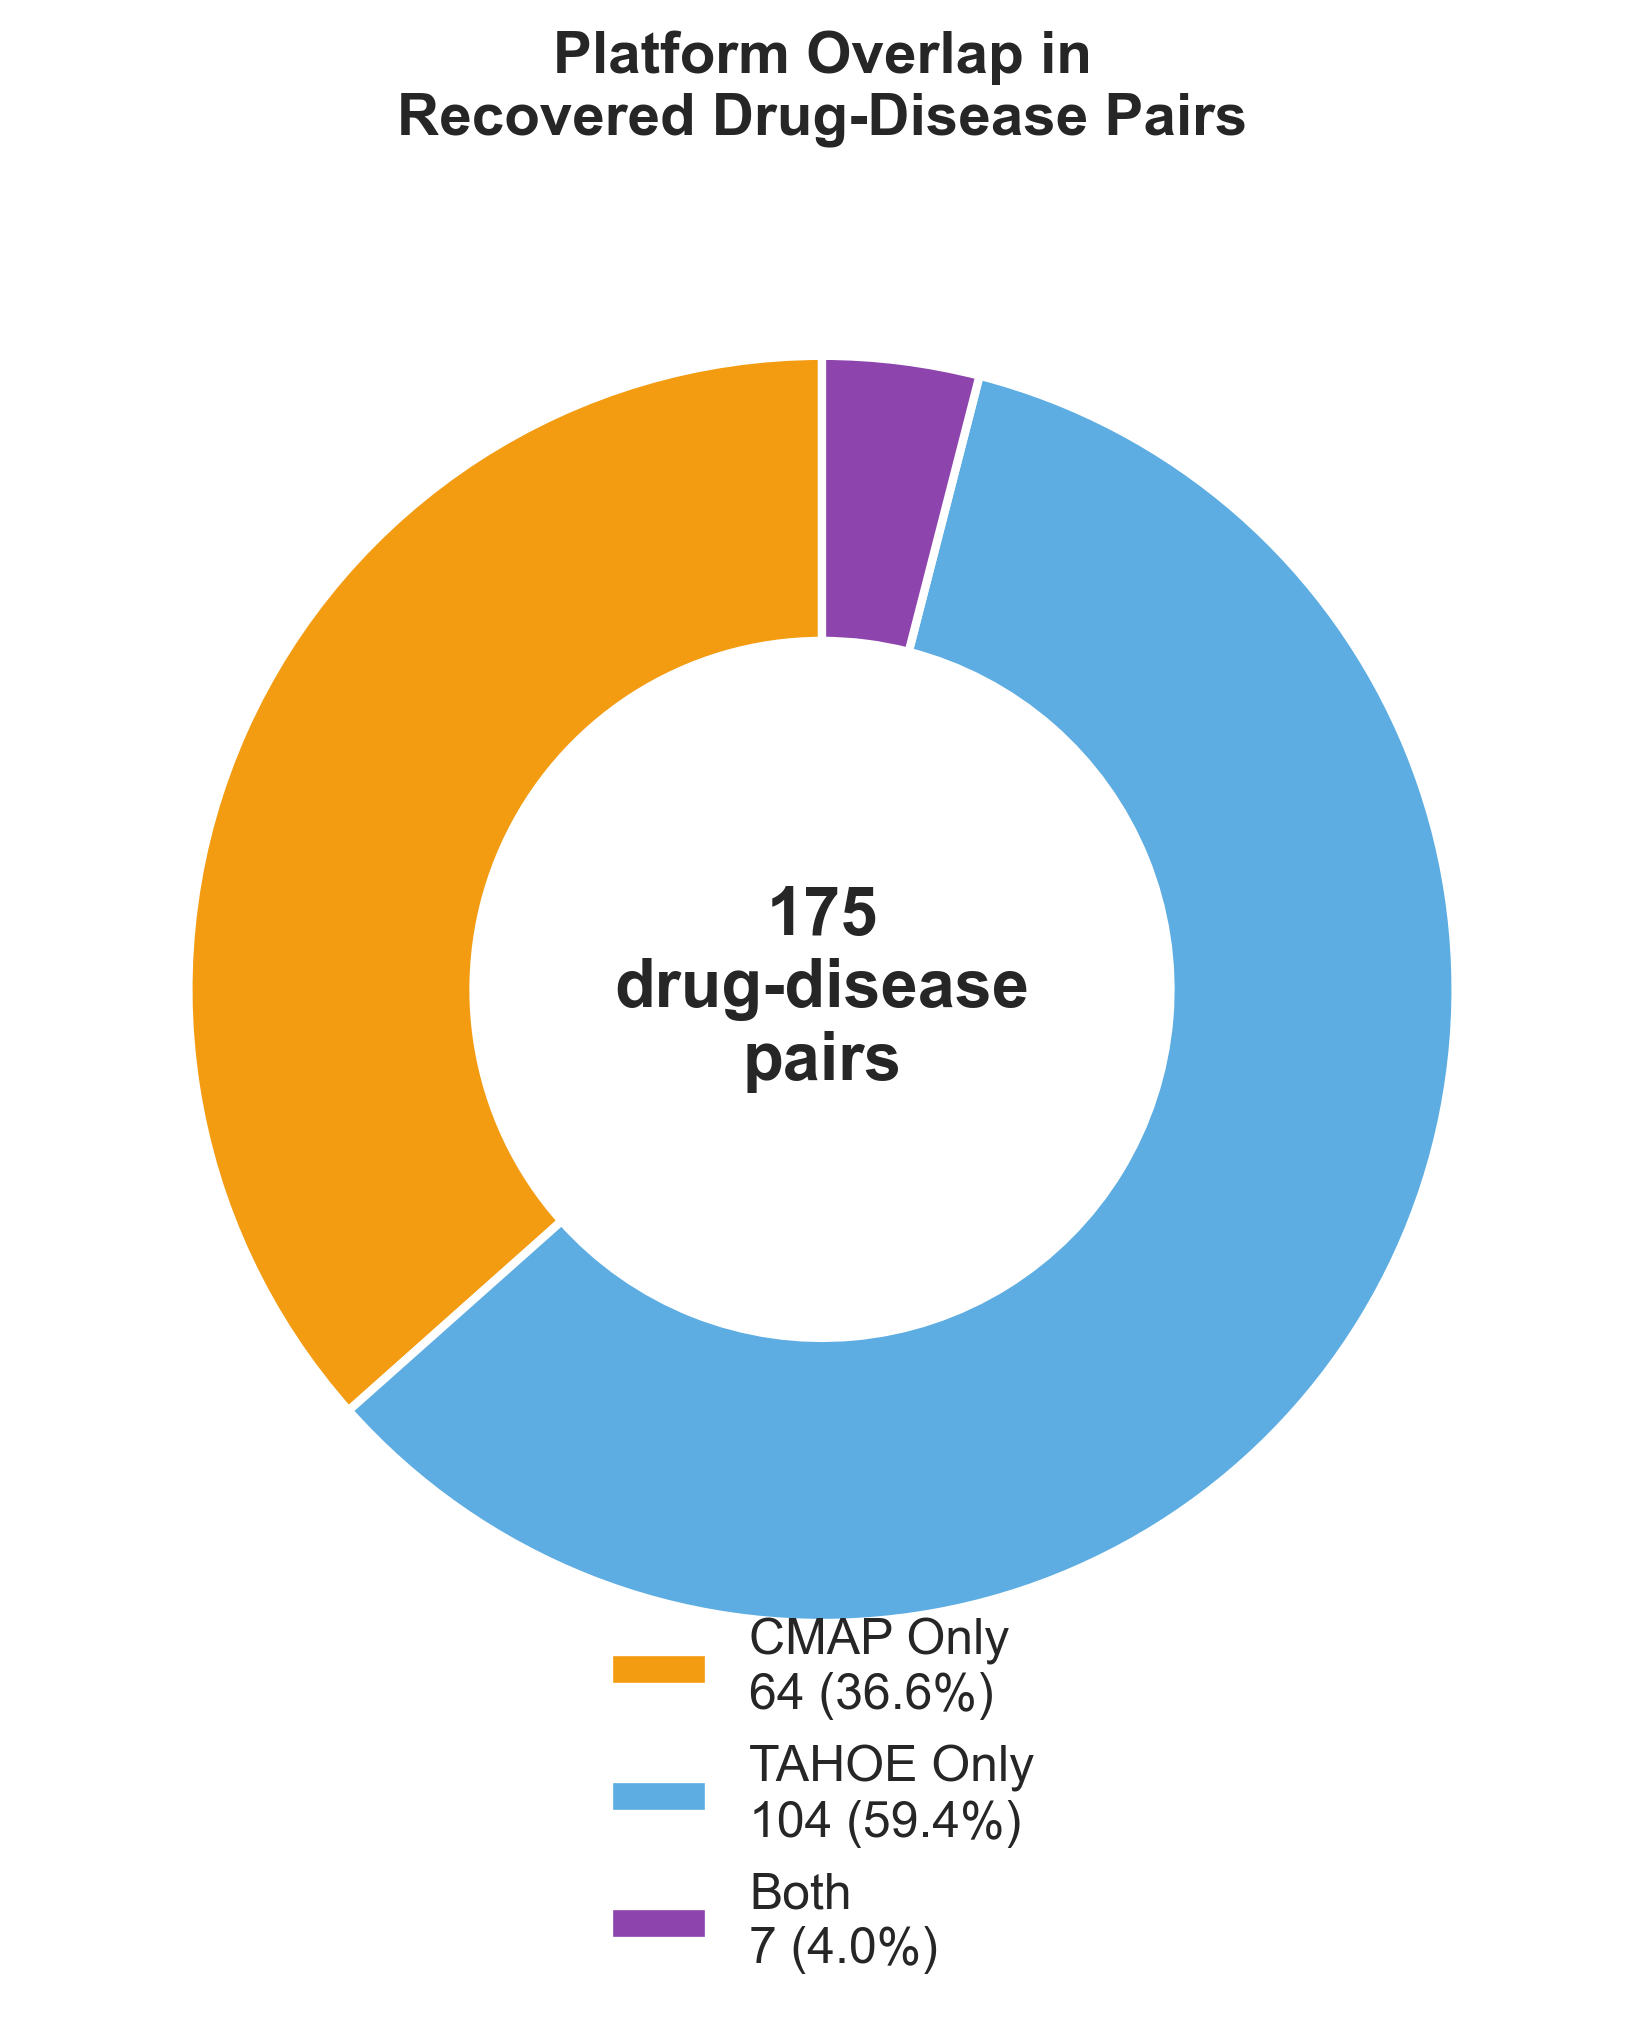
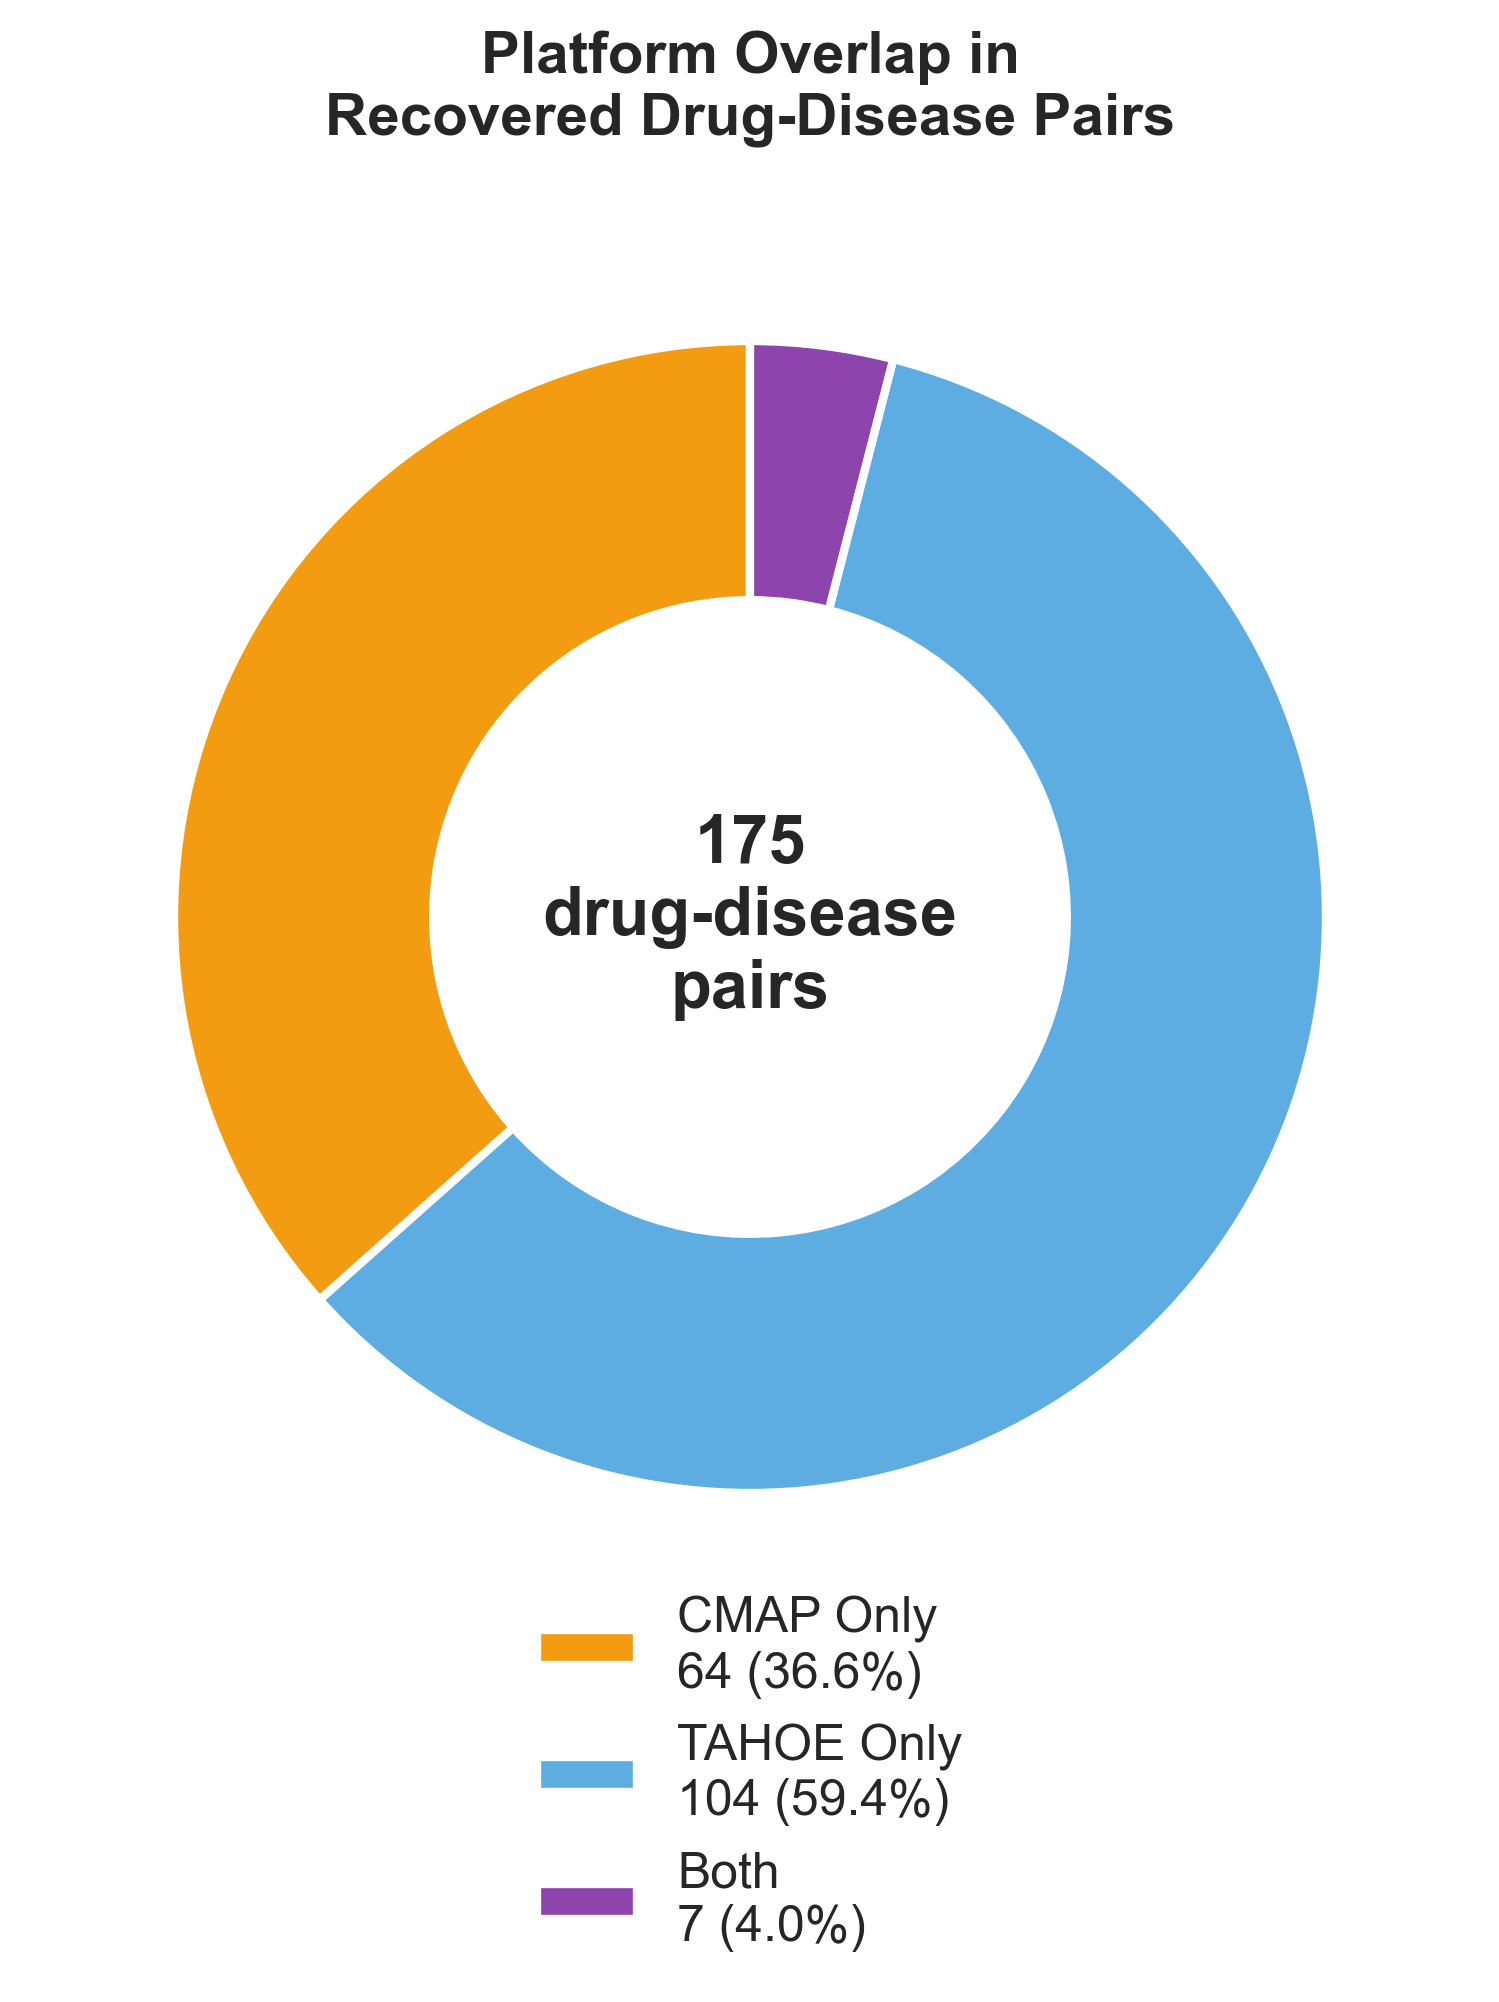
fix: correct known drug counts to unique drug_common_name, update ST1 caption
- Recomputed Known Drugs (DB) using unique drug_common_name per disease_id
  from Open Targets parquet (e.g., RA 2397→240, MS 1885→145)
- Preserved pipeline-derived Available/Recovered counts from git
- Updated Table1_Disease_Summary.csv with corrected counts and recovery rates
- Simplified ST1 caption (removed merge/colitis notes)
- Regenerated all autoimmune case study figures with corrected data

diff --git a/autoimmune/scripts/visualization/generate_case_study_autoimmune.py b/autoimmune/scripts/visualization/generate_case_study_autoimmune.py
@@ -470,12 +470,12 @@ def _make_donut(g_cmap, g_tahoe, g_both, title, filename):
     )
 
     ax.legend(wedges, labels, loc='lower center',
-              bbox_to_anchor=(0.5, -0.15), fontsize=12, frameon=False, ncol=1)
+              bbox_to_anchor=(0.5, -0.25), fontsize=12, frameon=False, ncol=1)
     ax.text(0, 0, f'{g_total}\ndrug-disease\npairs',
             ha='center', va='center', fontsize=16, fontweight='bold')
     ax.set_title(title, fontsize=14, fontweight='bold', pad=15)
 
-    plt.subplots_adjust(bottom=0.22)
+    plt.subplots_adjust(bottom=0.28)
     save(fig, filename)
 
 
